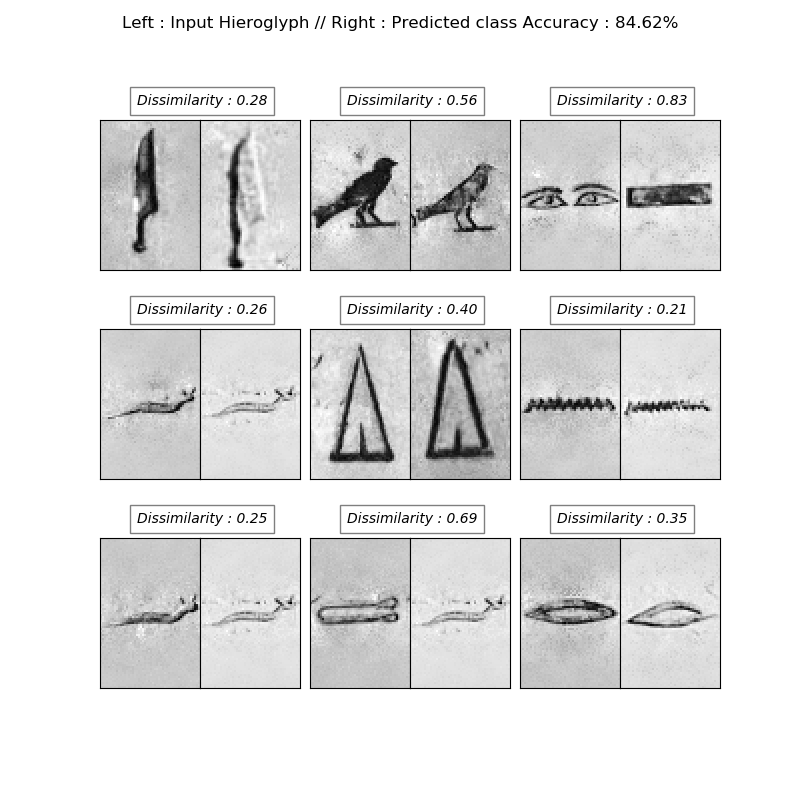
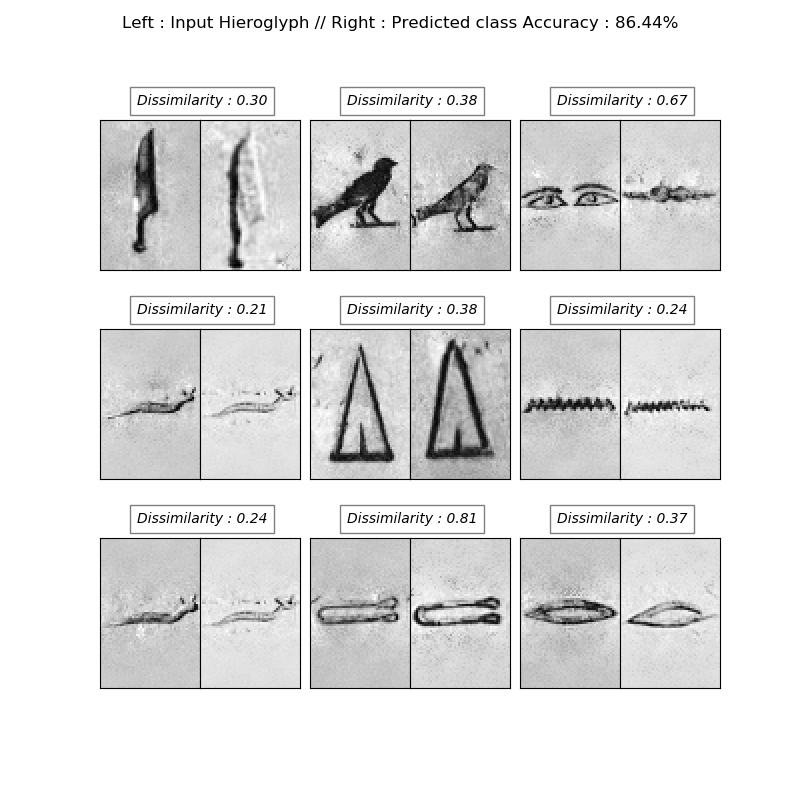
screenshots

diff --git a/README.md b/README.md
@@ -9,14 +9,7 @@ available on https://github.com/morrisfranken/glyphreader
 
 First try with siamese neural networks and triplet loss done in hieroRecognition.py. It's working ! 
 
-True Hieroglyph :  S29 // Predicted :  S29 dist :  0.5425345318390896
-
-True Hieroglyph :  D21 // Predicted :  D21 dist :  0.5125530245953122
-
-True Hieroglyph :  G17 // Predicted :  G21 dist :  0.41295210841828955
-
 ![alt text](screenshots/results2.png "Left : Input Hieroglyph // Right : Predicted class")
-
 
 TO DO LIST : 
 - check all the variables used and remove the useless
